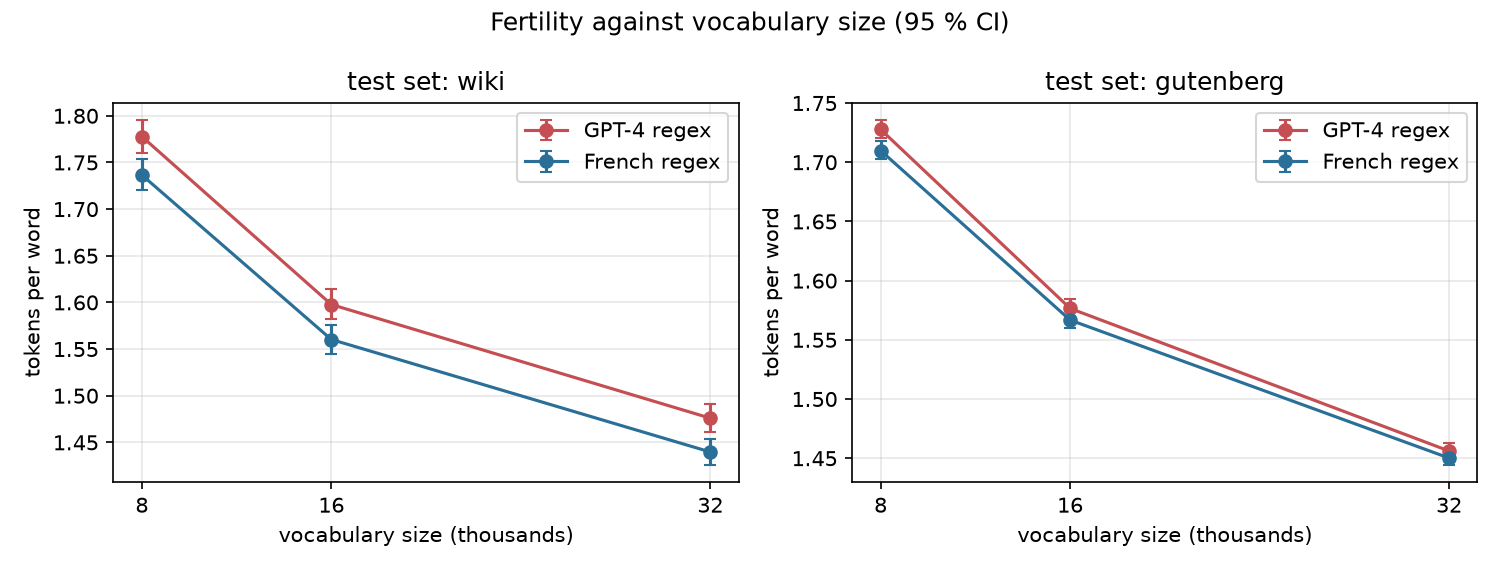
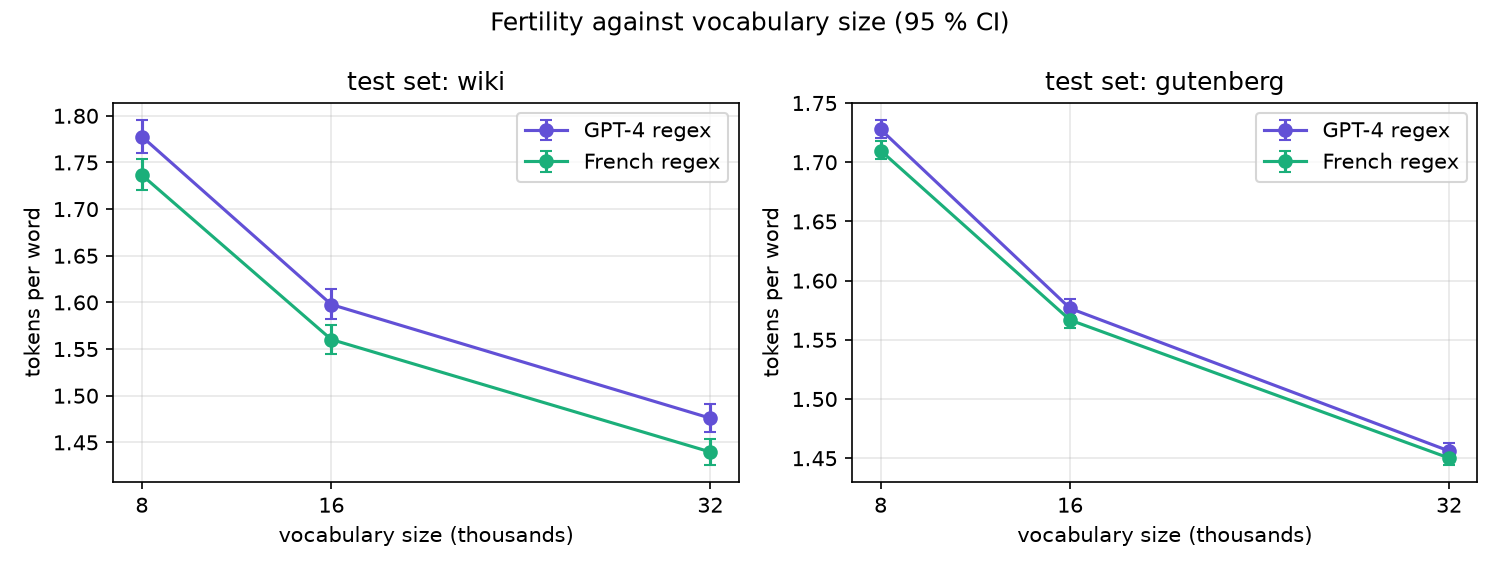
Use the agreed color palette in figures
Teal and violet for the series, grey for existing models; blue and
orange are kept for last. The comparison figure also gets a legend
below the panels, since telling my tokenizers from existing ones by
color alone was not enough and the first legend hid two bars.

Only the five PNG files change; every CSV is identical.

diff --git a/scripts/compare_tokenizers.py b/scripts/compare_tokenizers.py
@@ -22,6 +22,7 @@ import matplotlib
 
 matplotlib.use("Agg")
 import matplotlib.pyplot as plt  # noqa: E402
+from matplotlib.patches import Patch  # noqa: E402
 import numpy as np  # noqa: E402
 
 from download_reference import DEFAULT_DIR, tiktoken_cache_dir  # noqa: E402
@@ -97,16 +98,21 @@ def plot(rows: list[dict], out: Path) -> None:
         vals = [sel[n]["fertility"] for n in order]
         err = [[sel[n]["fertility"] - sel[n]["fertility_low"] for n in order],
                [sel[n]["fertility_high"] - sel[n]["fertility"] for n in order]]
-        colors = ["#2a6f97" if sel[n]["trained_on"] == SAME_CORPUS else "#b0b0b0" for n in order]
+        colors = ["#1baf7a" if sel[n]["trained_on"] == SAME_CORPUS else "#8a8986" for n in order]
         ax.barh(y, vals, xerr=err, color=colors, capsize=3)
         ax.set_yticks(y, [f"{n} ({sel[n]['vocab_size'] // 1000}k)" for n in order])
         ax.set_xlabel("tokens per word (lower is better)")
         ax.set_title(f"test set: {test_set}")
         ax.invert_yaxis()
         ax.grid(axis="x", alpha=0.3)
-    fig.suptitle("French fertility. Blue: trained on my corpus. Grey: existing models.")
+    # A legend, not only the colour, says which bars are mine.
+    handles = [Patch(color="#1baf7a", label="trained on my corpus"),
+               Patch(color="#8a8986", label="existing model")]
+    # Below the panels: inside, it hid the bars of my own tokenizers.
+    fig.legend(handles=handles, loc="lower center", ncol=2, bbox_to_anchor=(0.5, -0.04))
+    fig.suptitle("Tokens per word on French text, nine tokenizers (95 % CI)")
     fig.tight_layout()
-    fig.savefig(out, dpi=150)
+    fig.savefig(out, dpi=150, bbox_inches="tight")
     plt.close(fig)
 
 

diff --git a/scripts/evaluate_ablation.py b/scripts/evaluate_ablation.py
@@ -70,7 +70,7 @@ def plot_rules(rows: list[dict], out: Path) -> None:
             [100 * (r["change_high"] - r["change"]) for r in sel],
         ])
         y = np.arange(len(sel))
-        colors = ["#2a6f97" if r["pattern"] == "fr" else "#89b0c9" for r in sel]
+        colors = ["#6250d6" if r["pattern"] == "fr" else "#1baf7a" for r in sel]
         ax.barh(y, values, xerr=err, color=colors, capsize=3)
         ax.axvline(0, color="black", linewidth=0.8)
         ax.set_yticks(y, [RULE_LABELS[r["pattern"]] for r in sel])
@@ -86,7 +86,7 @@ def plot_rules(rows: list[dict], out: Path) -> None:
 def plot_fertility(rows: list[dict], out: Path) -> None:
     fig, axes = plt.subplots(1, 2, figsize=(10, 3.8))
     for ax, test_set in zip(axes, TEST_SETS):
-        for pattern, color in (("gpt4", "#c44e52"), ("fr", "#2a6f97")):
+        for pattern, color in (("gpt4", "#6250d6"), ("fr", "#1baf7a")):
             sel = sorted(
                 (r for r in rows if r["pattern"] == pattern and r["test_set"] == test_set),
                 key=lambda r: r["vocab"],

diff --git a/scripts/plot_speed.py b/scripts/plot_speed.py
@@ -18,7 +18,7 @@ import numpy as np  # noqa: E402
 
 ROOT = Path(__file__).resolve().parent.parent
 MACHINES = {"pc": "PC (Ryzen 3 7320U)", "pi5": "Raspberry Pi 5"}
-COLORS = {"pc": "#2a6f97", "pi5": "#c44e52"}
+COLORS = {"pc": "#1baf7a", "pi5": "#6250d6"}  # teal and violet: blue/orange only as a last resort
 
 
 def load(tag: str) -> dict[str, dict]:

diff --git a/README.md b/README.md
@@ -222,7 +222,7 @@ Full tables: `results/ablation_fertility.csv` and `results/ablation_vs_gpt4.csv`
 ## Against the tokenizers of existing models
 
 Nine tokenizers on the same two test sets. Four are trained on my corpus
-(blue in the figure at the top), five come from existing models (grey):
+(green in the figure at the top), five come from existing models (grey):
 
 | Tokenizer | Vocab | Trained on |
 |---|---|---|
